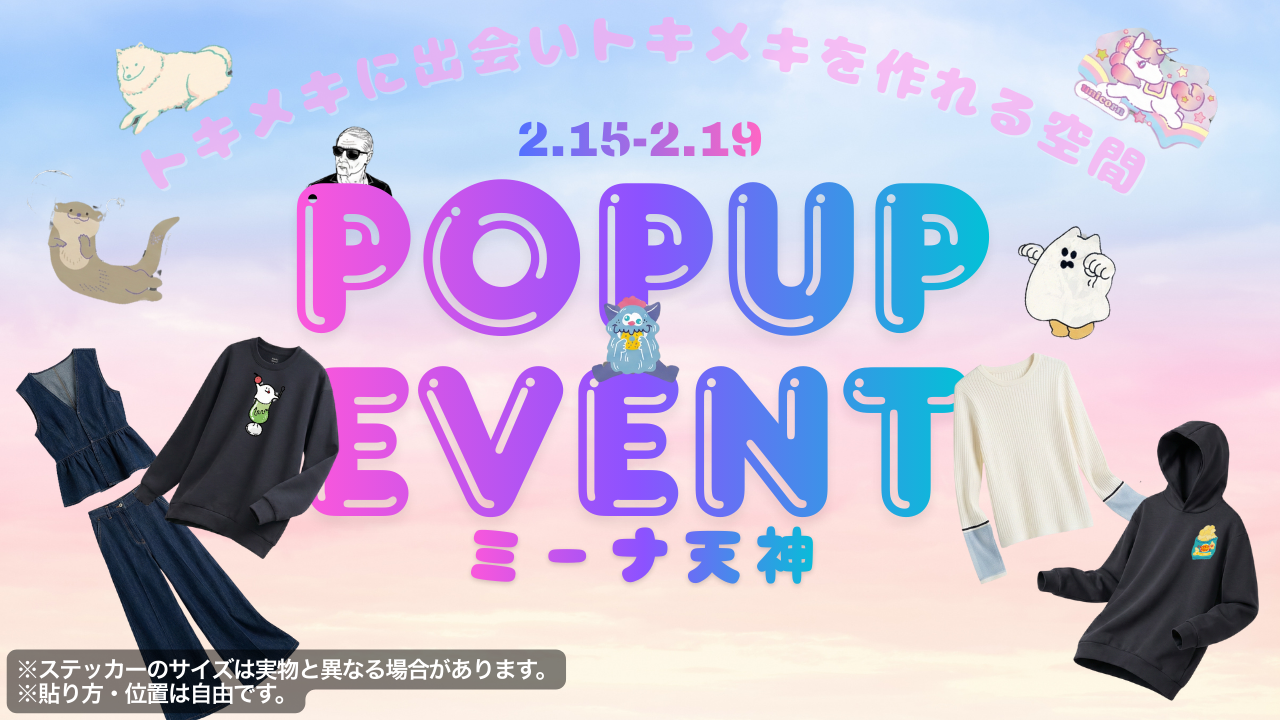
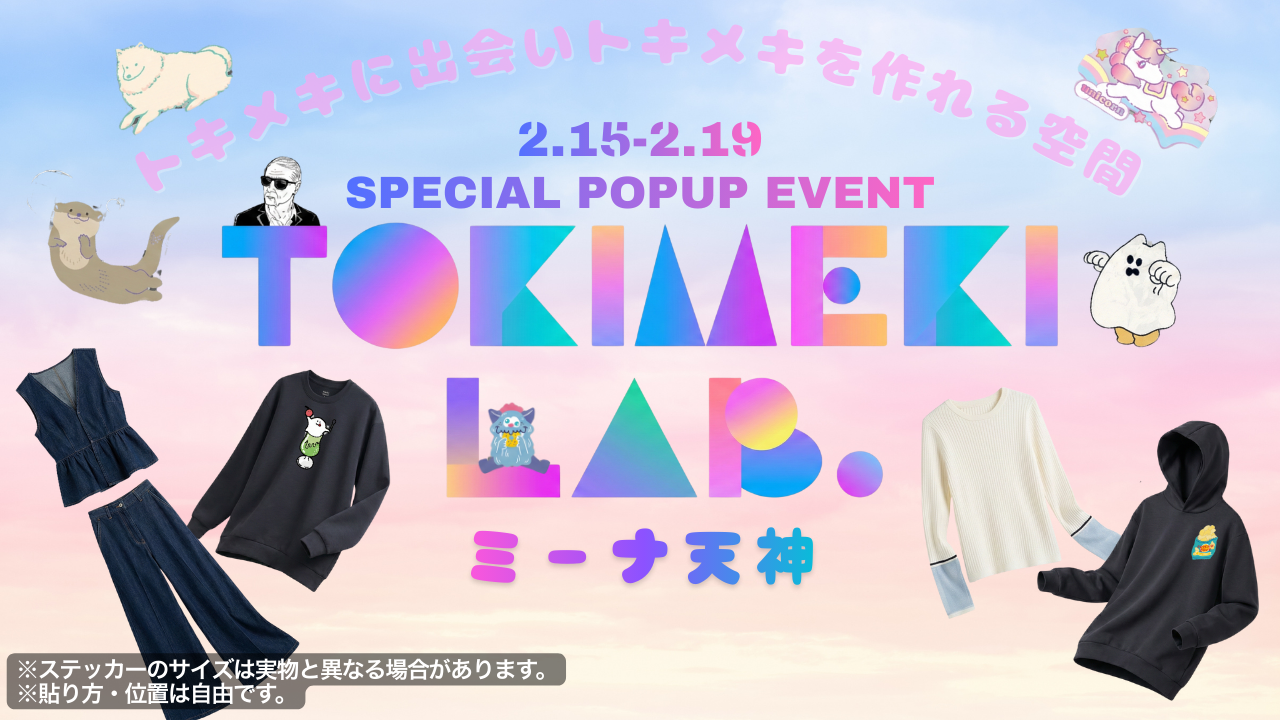
Fix syntax errors and push Like button implementation

diff --git a/src/app/event/tokimeki-lab/page.tsx b/src/app/event/tokimeki-lab/page.tsx
@@ -34,10 +34,10 @@ export default function TokimekiLab() {
               {/* Event Title */}
               <div className="text-center mb-12">
                 <span className="inline-block px-4 py-1 rounded-full bg-accent text-white text-sm font-bold tracking-wider mb-4">
-                  SPECIAL
+                  SPECIAL POPUP EVENT
                 </span>
                 <h1 className="text-3xl md:text-5xl font-bold font-playfair text-gray-900 mb-4 bg-clip-text text-transparent bg-gradient-to-r from-pink-500 to-purple-500">
-                  POPUP EVENT
+                  TOKIMEKI LAB.
                 </h1>
                 <p className="text-lg text-gray-600 font-medium">
                   トキメキに出会い、トキメキを作るファッションイベント
